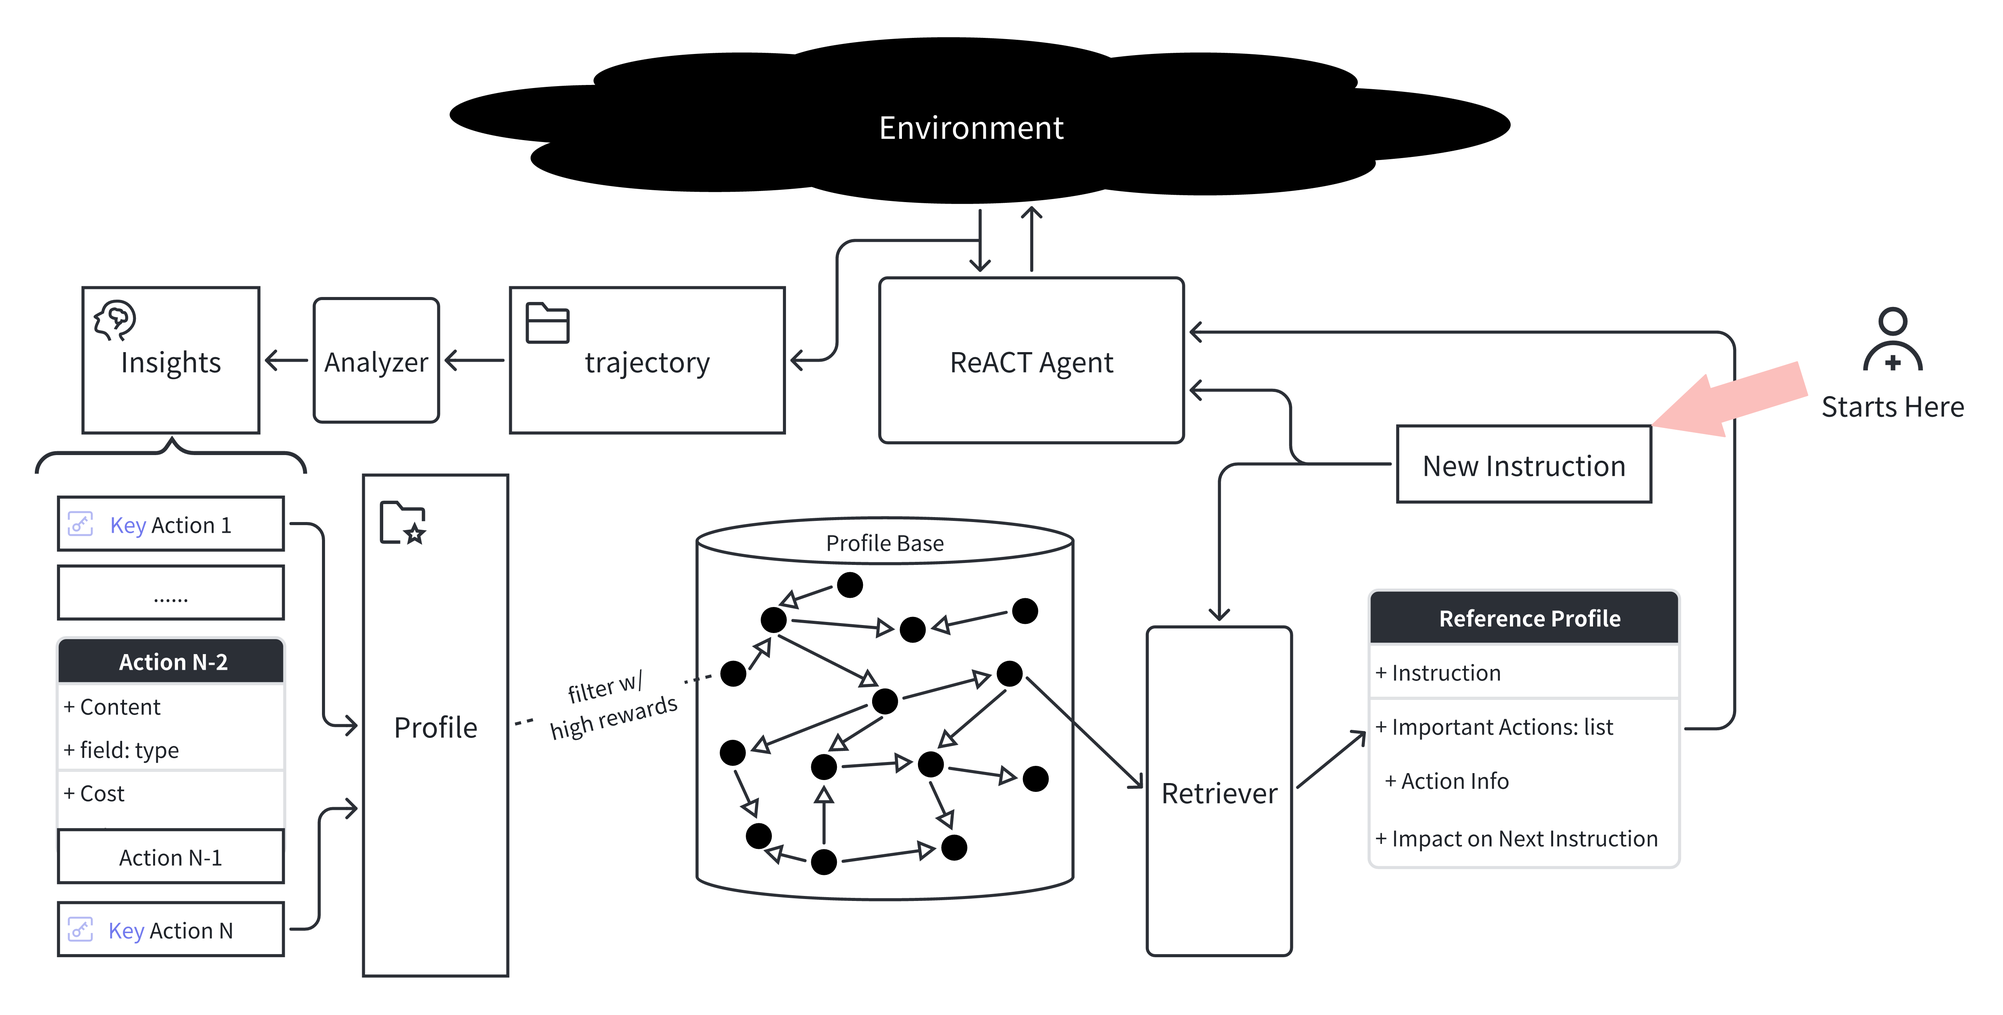
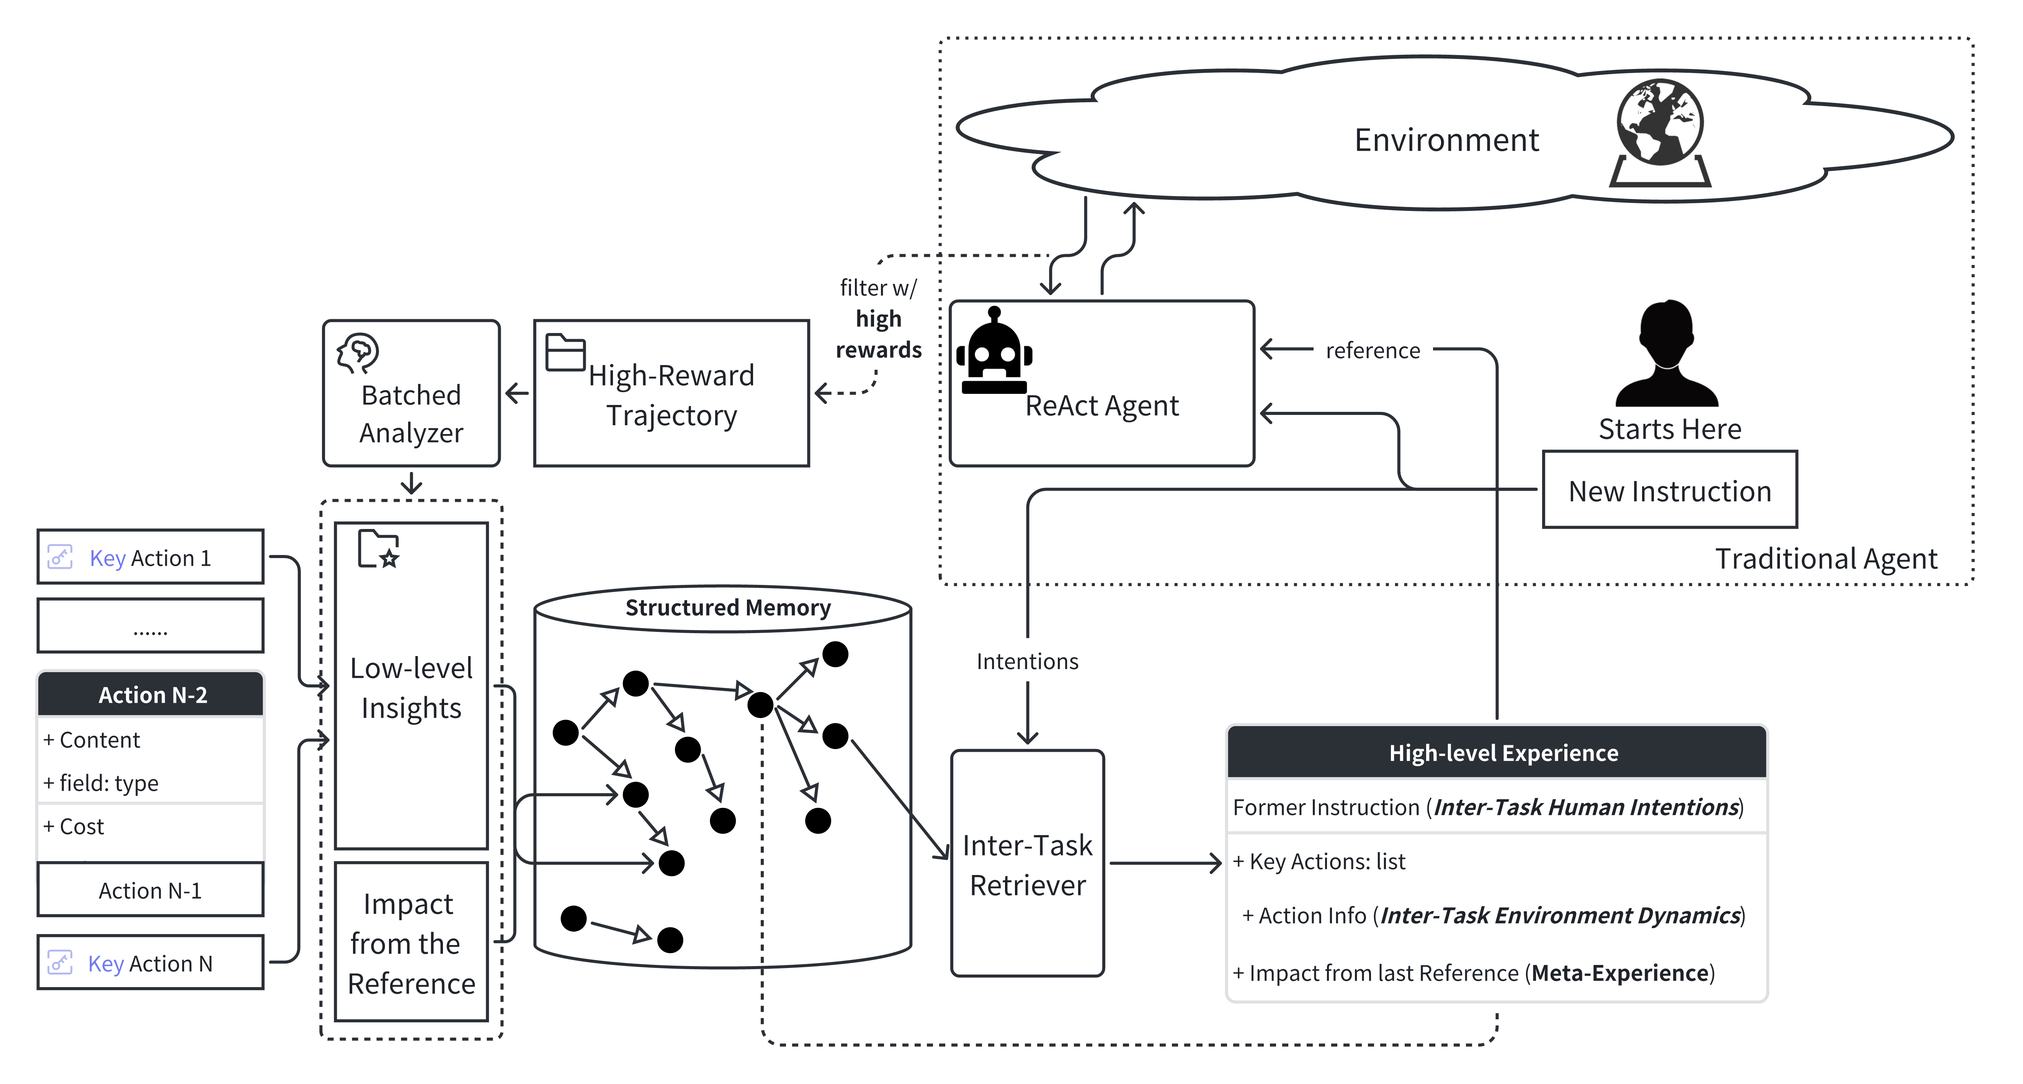
change name

diff --git a/environments/env_instr_list_cwebshop_runtime_session_d.py b/environments/env_instr_list_cwebshop_runtime_session_d.py
@@ -11,7 +11,7 @@ import re
 from bs4 import BeautifulSoup
 from bs4.element import Comment
 
-WEBSHOP_URL = "http://103.242.175.119:6790"
+WEBSHOP_URL = "<path to the env without ED>"
 ACTION_TO_TEMPLATE = {
     "Description": "description_page.html",
     "Features": "features_page.html",

diff --git a/environments/env_instr_list_cwebshop_runtime.py b/environments/env_instr_list_cwebshop_runtime.py
@@ -9,7 +9,7 @@ import re
 from bs4 import BeautifulSoup
 from bs4.element import Comment
 
-WEBSHOP_URL = "http://103.242.175.119:4000"
+WEBSHOP_URL = "<path to the env without HI>"
 ACTION_TO_TEMPLATE = {
     "Description": "description_page.html",
     "Features": "features_page.html",

diff --git a/environments/env_instr_list_cwebshop_runtime_session.py b/environments/env_instr_list_cwebshop_runtime_session.py
@@ -11,7 +11,7 @@ import re
 from bs4 import BeautifulSoup
 from bs4.element import Comment
 
-WEBSHOP_URL = "http://103.242.175.119:5000"
+WEBSHOP_URL = "<path to the env>"
 ACTION_TO_TEMPLATE = {
     "Description": "description_page.html",
     "Features": "features_page.html",

diff --git a/baselines/rap/reasoners/lm/api_openai_model.py b/baselines/rap/reasoners/lm/api_openai_model.py
@@ -1,5 +1,4 @@
 import os
-import openai
 import numpy as np
 from typing import Optional, Union
 import time

diff --git a/README.md b/README.md
@@ -1,72 +1,88 @@
-# **C**ost-sensitive **Agent** (**C-Agent**) Framework
+# Agents under **U**nified **A**lignment for **A**gents (**UA**$^2$) Framework
 
 
-> 🚀 This repo implements the preliminary version of **C**ost-sensitive **Agent** framework (**C-Agent**) with results benchmarked on [C-Webshop](https://github.com/AgentForceTeamOfficial/C-WebShop).  
-> 🚀 The project is a practice of LLM-powered agent framework design under the guidance of [*Cost Desiderata in LLM-Powered Agent Research*](https://agent-force.github.io/cost-desiderata-agent-research.html).
+> 🚀 This repo implements the preliminary version of agents designed under **U**nified **A**lignment for **A**gents (**UA**$^2$) framework with results benchmarked on [**UA**$^2$-Webshop](https://github.com/AgentForceTeamOfficial/**UA**$^2$-Webshop).  
+> 🚀 The project is a practice of LLM-powered agent framework design under the guidance of [*Towards Unified Alignment Between Agents, Humans, and Environment*](https://agent-force.github.io/unified-alignment-for-agents.html).
 
 
-## Performance Comparison on C-Webshop
+## Performance Comparison on **UA**$^2$-Webshop
 
 ![Plot](./figs/performance-comparison.png)
+<details><summary>Caption</summary>
+The performance of averaged reward, success rate (SR) (%), alignment gap (%) with human intentions (G_{HI}) and environment dynamics (G_{ED}), time (s) and money ($) cost of all methods tested in our retrofitted WebShop environment. The best result for each metric is in <b>bold</b>. The better performance under each metric is indicated by the darker <font color="green">green</font> shades. *LATS is tested on 1/10 subset of the
+entire task instructions due to the significant cost.
+</details>
+
+$$$$
 
 🎡 **Methods used for comparison**:
 
-- [**CoT-SC**](https://arxiv.org/abs/2203.11171): Sampling diverse [Chain-of-Thought reasoning](https://arxiv.org/abs/2201.11903) paths and action candidates, and voting for the majority to enhance self consistency.
+<!-- - [**CoT-SC**](https://arxiv.org/abs/2203.11171): Sampling diverse [Chain-of-Thought reasoning](https://arxiv.org/abs/2201.11903) paths and action candidates, and voting for the majority to enhance self-consistency. -->
 - [**ReAct**](https://arxiv.org/abs/2210.03629): On each step, the agent decides whether to take actions or reason about the query based on the current state.
-- **ReACT-SC**: Instead of Chain-of-Thought reasoning, we apply sel consistency strategy to ReAct to further improve the performance.
-- [**LATS**](https://arxiv.org/abs/2310.04406): an advanced method that unifies ReAct, self-reflection, and tree search based planning. We adapt the original implementation in our scenario for comparison.
-- **Ours**: the C-Agent framework, which is introduced in the below section.
+- [**ReACT-SC**](https://arxiv.org/abs/2203.11171): Instead of Chain-of-Thought reasoning, we apply self-consistency strategy to ReAct to further improve the performance.
+- [**Reflexion**](https://arxiv.org/abs/2303.11366): Using verbal feedback as the reflecion signal for agents. In this case, we follow the external reward as the feedback directly from the environment, following its original setting.  
+- [**LATS**](https://arxiv.org/abs/2310.04406): An advanced method that unifies ReAct, self-reflection, and tree search based planning. We adapt the original implementation in our scenario for comparison.
+- **Ours**: the **UA**$^2$-Agent framework, which is introduced in the below section.
 
 ## Introduction
 
-### 🌐 C-Webshop
+### 🌐 **UA**$^2$-Webshop
 
-To be specific, for the environment construction part, the key contribution of C-WebShop to the LLM-powered agent research community is the concept of **cost** rooted in the agent-assisting process. In C-WebShop, cost originates from different sources. To name a few:
-  - Self cost of LLM-powered agents. Money, time, space, etc.
-  - Exploration cost from the environment. The environment to be interacted with can be evolving w.r.t. user interactions, where the cost of exploration is formed.
-  - Alignment Cost from the human user. The agent is not always aware of the user preference, and the cost of alignment is formed.
+To be specific, the key contribution of our **UA**$^2$ principles to the LLM-powered agent research community is the concept of **alignment** rooted in the agent-assisting process. In **UA**$^2$-Webshop, the requirements of alignment originates from different sources. To name a few:
+  - **Human Intentions** (HI): Whether the authentic goals need to be inferred during task execution, or the intentions of humans are precisely conveyed in the descriptions.
+  - **Environmental Dynamics** (ED): Whether the state transitions of the environment are intrinsically endowed with partial observability, temporality, or stochasticity.
+  - **Self-Constraints**: Whether the status of budgetary resources is reflected, including time consumption, the maximum number of actions or reasoning steps, etc.
     
-Kindly refer to the online [article](https://agent-force.github.io/cost-desiderata-agent-research.html) for detailed categorization of **cost**. The live site demo can be found [here](http://49.232.144.86:5000/), as well as the environment [repo](https://github.com/AgentForceTeamOfficial/C-WebShop) for local deployment purpose.
+Kindly refer to the online [article](https://agent-force.github.io/unified-alignment-for-agents.html) for detailed depiction on how we introduce those requirements. The live site demo can be found [here](http://49.232.144.86:5000/), as well as the environment [repo](https://github.com/AgentForceTeamOfficial/C-Webshop) for local deployment purpose.
 
-The exploration cost and the alignment cost are already reflected by the task and the website design of C-WebShop. In this repo, we wrap the environment with cost-related runtime information (time and money) to compute the self cost of an LLM-powered agent.
+These requirements are already reflected by the task and the website design of **UA**$^2$-Webshop. In this repo, we wrap the environment with runtime information (time and money) to compute the resource consumptions of an LLM-powered agent.
 
-### 🤖 C-Agent Framework
+### 🤖 **UA**$^2$-Agent Framework
 
-The key challenge is to build an agent framework that manages to assist the decision process in a realistic environment, in consideration of different types of cost. We leverage structured profiles with free-form insights to make better decisions. 
+The key challenge is to build an agent framework that manages to assist the decision process in a realistic environment, in consideration of different principles of alignment. We leverage a structured memory with low-level insights to make better decisions upon ReACT agents. 
 
 ![Profiler](./figs/Profiler.png)
+<details><summary>Caption</summary>
+The details of our agent design that follows the principles of <b>UA</b>^{2}. Compared to traditional ReACT agents, we append structured experience as the long-term memory: By filtering and analyzing raw trajectories, we extracted key actions from prior successes as low-level insights in reasoning/action paths. By retrieving reference low-level insights under the same user, we can find the high-level experience under most similar user instructions, expressing similar human intentions. Agents are able to understand human intentions and environment dynamics by extrapolating key actions from a similar, prior task.
+</details>
 
-💡 Here are some principles we follow:
+$$$$
 
-- **Reduce alignment cost**: quickly adapting to the user's preference by retrieving trajectories with high rewards beforehand.
-- **Reduce exploration cost**: directly transfer short-cuts in interaction / reasoning process that lead to the success of the retrieved trajectories.
-- **Reduce self cost**: extracting structured records from free-form insights, without the aid of LLMs or human annotators; retrieving the most similar profile for reference, instead of agent planning from scratch or searching in huge memory/experience space.
+*Low-level* action insights are a list of key actions solicited
+from different runs in the environment under the same task
+instruction. The key actions are extracted from the high-reward trajectories with an analyzer, with which the contributions of actions are computed in the task-solving process. 
+
+💡 Here are the ways we follow the **UA**$^2$ principles:
+
+- **Human Intentions**: quickly adapting to the user's preference by retrieving trajectories with high rewards beforehand as the high-level experience. Note that the structured memory only stores the experience of the same user. 
+- **Environment Dynamics**: directly transfer the key actions as short-cuts in interaction / reasoning process that lead to the success under ever-changing environment. 
+- **Self-Constraints**: retrieving the trajectory of the most similar instruction before as a reference from structured memory. The agent directlly extrapolating the experience, instead of planning from scratch with LLMs or searching in huge memory / experience space.
 
 **Two major modules**:
 
-- *Insight* part:
+- *Analyzer* part:
 
-  - Get profiles from *Profiler* to better complete the current instruction
-  - Recognize key actions of the current trajectory via reflection
+  - Infer the impact of the reference retrieved from the structured *Memory* to better complete the current task
+  - Recognize key actions of the current trajectory via reflection in a single LLM call
 
-- *Profile* part:
+- *Memory* part:
 
-  - Long-term experience accumulation
-  - Structured representation for instruction relations
-  - Direct action extrapolation from the action list
-  - Semantic similarity for profile retrieval
+  - Experimence accumulation with a specific user
+  - Structured representation for instruction relations: references points to the actual trajectory of a task 
+  - Using semantic similarities for inter-task retrieval
+  - Direct action extrapolation from the key action list
 
     *(For better efficiency, we only utilize the best matched profile as a reference in decision making)*
 
 ## What is the function of different directories?
 
-- `./cwebshop-algo`: the core of our **C-agent** framework
-  - `Insight.py`: the implementation of *Insight* part
-  - `Profiler.py`: the implementation of *Profiling* part
-  - `react_w_insights_w_profiler_v1benchmark.py`: the implementation of our C-Agent algorithm on C-Webshop benchmark
+- `./ua2-agent`: the core of our ****UA**$^2$-Agent** framework
+  - `Insight.py`: the implementation of *Analyzer* part
+  - `Profiler.py`: the implementation of *Memory* part
+  - `react_w_insights_w_profiler_v1benchmark.py`: the implementation of our **UA**$^2$-Agent algorithm on **UA**$^2$-Webshop benchmark
 
-- `./environments`: running environment of our C-Webshop benchmark (the encapsulation of our core environment)
-  - `env_instr_list_cwebshop_runtime_session.py`: the capsule of run-time environment leveraging cost information for C-Webshop benchmark
+- `./environments`: running environment of our **UA**$^2$-Webshop benchmark (the encapsulation of our core environment)
+  - `env_instr_list_cwebshop_runtime_session.py`: the capsule of run-time environment leveraging cost information for **UA**$^2$-Webshop benchmark
 
 - `./baselines`: source code of baselines
   - `README.md`: the instruction of how to run baselines and implementation details
@@ -75,9 +91,9 @@ The key challenge is to build an agent framework that manages to assist the deci
 
 Prepare for the conda environment:
 ```sh
-conda create -n cdab
+conda create -n ua2
 pip install -r requirements.txt
-conda activate cdab
+conda activate ua2
 ```
 
 Add your OpenAI API key to your environment:
@@ -91,7 +107,7 @@ export OPENAI_API_KEY=<YOUR_API_KEY>
 set OPENAI_API_KEY=<YOUR_API_KEY>
 ```
 
-For ReAct-series and CoT-series baselines, change your working directory and run the corresponding script directly:
+For Reflexion, ReAct-series and CoT-series baselines, change your working directory and run the corresponding script directly:
 ```sh
 cd baselines
 python cot_least_to_most.py
@@ -123,22 +139,23 @@ After running the script, the results can be found in the directory `./runtime_l
 ## Authors
 
 <div>
-    <span style="vertical-align: middle">The C-Agent project is a collaborative effort of</span> <img src="figs/agentforce-logo.jpg" style="width:2em;vertical-align: middle" alt="Logo"/> <span style="vertical-align: middle"><b>AgentForce Team</b>. The method design, implementation and the testing of baseline methods in the context of the <a href="https://github.com/AgentForceTeamOfficial/C-WebShop">C-WebShop</a> is initiated and co-led by <a href="https://www.linkedin.com/in/%E5%AD%90%E5%90%9B-%E5%88%98-164596263/">Zijun Liu</a> (<a href="mailto: liuzijun20@mails.tsinghua.edu.cn">liuzijun20@mails.tsinghua.edu.cn</a>) and <a href="https://github.com/xxmlala">An Liu</a> (<a href="mailto: la22@mails.tsinghua.edu.cn">la22@mails.tsinghua.edu.cn</a>). The following members are listed with main contributions:</span> 
+    <span style="vertical-align: middle">The **UA**$^2$-Agent project is a collaborative effort of</span> <img src="figs/agentforce-logo.jpg" style="width:2em;vertical-align: middle" alt="Logo"/> <span style="vertical-align: middle"><b>AgentForce Team</b>. The method design, implementation and the testing of baseline methods in the context of the <a href="https://github.com/AgentForceTeamOfficial/**UA**$^2$-Webshop">**UA**$^2$-Webshop</a> is initiated and co-led by <a href="https://www.linkedin.com/in/%E5%AD%90%E5%90%9B-%E5%88%98-164596263/">Zijun Liu</a> (<a href="mailto: liuzijun20@mails.tsinghua.edu.cn">liuzijun20@mails.tsinghua.edu.cn</a>) and <a href="https://github.com/xxmlala">An Liu</a> (<a href="mailto: la22@mails.tsinghua.edu.cn">la22@mails.tsinghua.edu.cn</a>). The following members are listed with main contributions:</span> 
 </div>
 
-- [An Liu](https://github.com/xxmlala) developed the insight-module, conducted thorough experiments, implemented baselines and data visualization.
-- [Zijun Liu](https://www.linkedin.cn/incareer/in/%E5%AD%90%E5%90%9B-%E5%88%98-164596263) initiated the conceptualization of Profiler, define and refine the C-Agent Framework leveraging structured profiles, and conducted thorough experiments.
-- [Kaiming Liu](https://github.com/KMing-L) developed the runtime environment and the retrieval component of the Profiler, as well as calibrating the presentation of performances of different methods.
+- [An Liu](https://github.com/xxmlala) developed the **UA**$^2$ Agent, conducted thorough experiments, implemented baselines and data visualization.
+- [Zijun Liu](https://www.linkedin.cn/incareer/in/%E5%AD%90%E5%90%9B-%E5%88%98-164596263) developed the **UA**$^2$ Agent, refined the conceptualization of the **UA**$^2$-Agent Framework, and conducted thorough experiments.
+- [Kaiming Liu](https://github.com/KMing-L) developed the runtime environment and the **UA**$^2$ Agent, as well as calibrating the presentation of performances of different baseline methods.
 - [Zeyuan Yang](https://github.com/MiicheYang) and [Zonghan Yang](https://minicheshire.github.io) contributed to the initial version of the runtime environment wrapper.
-- [Zonghan Yang](https://minicheshire.github.io) implemented the initial build of ReAct, and was also in charge of the final version of data visualization.
+- [Zonghan Yang](https://minicheshire.github.io) was also in charge of the final version of data visualization.
 - [Zhicheng Guo](https://github.com/zhichengg), [Qingyuan Hu](https://github.com/HQY188), [Kaiming Liu](https://github.com/KMing-L), [An Liu](https://github.com/xxmlala), [Zijun Liu](https://www.linkedin.cn/incareer/in/%E5%AD%90%E5%90%9B-%E5%88%98-164596263), and [Zonghan Yang](https://minicheshire.github.io) collaborated on the implementation of the baseline methods and their evaluation. The respective leaders are:
   - LATS: [Zhicheng Guo](https://github.com/zhichengg) and [An Liu](https://github.com/xxmlala)
   - RAP: [An Liu](https://github.com/xxmlala)
+  - Reflexion: [An Liu](https://github.com/xxmlala) and [Zijun Liu](https://www.linkedin.cn/incareer/in/%E5%AD%90%E5%90%9B-%E5%88%98-164596263)
   - ReAct: [Kaiming Liu](https://github.com/KMing-L) and [Zonghan Yang](https://minicheshire.github.io)
   - CoT-L2M: [Qingyuan Hu](https://github.com/HQY188) and [Kaiming Liu](https://github.com/KMing-L)
   - ReAct-SC & CoT-SC: [Kaiming Liu](https://github.com/KMing-L)
   - Overall co-lead: [An Liu](https://github.com/xxmlala) and [Zijun Liu](https://github.com/BBQGOD)
-- [An Liu](https://github.com/xxmlala), [Zijun Liu](https://www.linkedin.cn/incareer/in/%E5%AD%90%E5%90%9B-%E5%88%98-164596263), and [Kaiming Liu](https://github.com/KMing-L) also provided significant advice to the construction and configuration of the C-WebShop environment.
+- [An Liu](https://github.com/xxmlala), [Zijun Liu](https://www.linkedin.cn/incareer/in/%E5%AD%90%E5%90%9B-%E5%88%98-164596263), and [Kaiming Liu](https://github.com/KMing-L) also provided significant advice to the construction and configuration of the **UA**$^2$-Webshop environment. 
 
 
 This project is advised by [Peng Li](https://www.lpeng.net/) (lipeng@air.tsinghua.edu.cn) and [Yang Liu](https://nlp.csai.tsinghua.edu.cn/~ly/) (liuyang2011@tsinghua.edu.cn).

diff --git a/baselines/README.md b/baselines/README.md
@@ -1,10 +1,10 @@
 # QuickStart Guide & Examples
 
-This directory contains examples of AgentForce environments to help you get started with AgentForce effectively.
+This directory contains example baselines on the **UA**$^2$-Webshop environment to help you replicate our experiments effectively.
 
 ## Quick Start
 
-To begin, we provide a simple template `example.py`. This will guide you through interacting with the AgentForce environment and executing actions at each step.
+To begin, we provide a simple template `example.py`. This will guide you through interacting with the **UA**$^2$-Webshop environment and executing actions at each step.
 
 ### Step0: Set up your OPENAI_API_KEY
 
@@ -33,16 +33,16 @@ Returns:
 
 ### Step2: Get the next action
 
-Complete the `get_next_action()` function. This function is crucial for determining the subsequent move in the AgentForce environment. A legal action is composed of specific commands:
+Complete the `get_next_action()` function. This function is crucial for determining the subsequent move in the **UA**$^2$-Webshop environment. A legal action is composed of specific commands:
 - `think[xxx]`: Use this action to internally process or decide the next step without interacting with the web environment. Replace 'xxx' with your specific thinking or decision-making process.
-- `search[xxx]`: This action directs the agent to perform a web search. Replace 'xxx' with the query you wish to search for.
-- `click[xxx]`: Utilize this action to simulate a click in the web environment. Replace 'xxx' with the identifier of the item you want to click on.
+- `search[xxx]`: This action directs the agent to perform a search. Replace 'xxx' with the query you wish to search for.
+- `click[xxx]`: Utilize this action to simulate a click in the webshop environment. Replace 'xxx' with the identifier of the item you want to click on.
 
 Ensure that the actions you generate are valid and contextually appropriate for the task at hand. The effectiveness of your agent relies heavily on the relevance and strategic use of these actions.
 
 ## Baselines Example
 
-We provide four example baselines for AgentForce:
+We provide four example baselines on the **UA**$^2$-Webshop:
 - `react.py`
 - `react_sc.py`
 - `cot_sc.py`
@@ -61,8 +61,8 @@ Search for "# [*]" in the code to find these sections easily.
 Set up your environments with the following commands:
 
 ```shell
-conda create -n agentforce python=3.11
-conda activate agentforce
+conda create -n ua2 python=3.11
+conda activate ua2
 pip install -r ../requirements.txt
 ```
 
